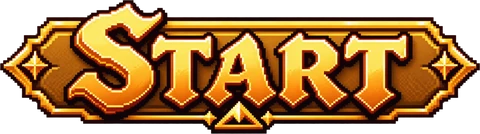
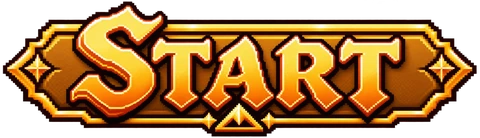
deploy: publish runtime website

diff --git a/css/ui.css b/css/ui.css
@@ -86,65 +86,11 @@
   gap: clamp(8px, 1.5vw, 22px);
 }
 
-/* Echo the Start artwork's stepped gold trim and outlined display serif. */
+/* Both images share the same proportions and click-target width. */
+#start-button,
 .title-portfolio-link {
-  --plaque-shape: polygon(0 50%, 7% 23%, 13% 23%, 13% 10%, 87% 10%, 87% 23%, 93% 23%, 100% 50%, 93% 77%, 87% 77%, 87% 90%, 13% 90%, 13% 77%, 7% 77%);
-  position: relative;
-  isolation: isolate;
-  display: grid;
-  place-items: center;
-  padding: 0.8em 1.45em;
-  min-height: 44px;
-  white-space: nowrap;
-  color: #ffdd88;
-  font: 900 clamp(13px, 1.75cqw, 24px)/1 Georgia, serif;
-  font-variant: small-caps;
-  text-decoration: none;
-  text-shadow: 0 2px #7b3109, 1px 0 #2e1108, -1px 0 #2e1108, 0 -1px #2e1108, 0 3px #1d0b07;
-  filter: drop-shadow(0 2px #1d0b07) drop-shadow(0 0 5px #fab95855);
-  transition: transform 0.12s ease, filter 0.12s ease;
-}
-
-.title-portfolio-link::before,
-.title-portfolio-link::after {
-  content: "";
-  position: absolute;
-  z-index: -1;
-  clip-path: var(--plaque-shape);
-  pointer-events: none;
-}
-
-.title-portfolio-link::before {
-  inset: 0;
-  background: linear-gradient(#fff1b6 12%, #ffbf42 38%, #a64b0f 58%, #ffbc38 86%);
-}
-
-.title-portfolio-link::after {
-  inset: 4px 7px;
-  background: linear-gradient(#6b2d15, #341509 46%, #190d0b 51%, #511e0f);
-}
-
-.title-portfolio-link:hover,
-.title-portfolio-link:focus-visible {
-  transform: scale(1.05);
-  filter: brightness(1.14) drop-shadow(0 2px #1d0b07) drop-shadow(0 0 10px #ffc85a99);
-}
-
-.title-portfolio-link:focus-visible {
-  outline: 2px solid #fff0bf;
-  outline-offset: 2px;
-}
-
-@container (max-width: 440px) {
-  .title-buttons #start-button { min-width: 94px; }
-  .title-portfolio-link { min-height: 36px; padding-inline: 1.2em; }
-}
-
-/* The Start button is the author's art (assets/ui/start-button.webp);
-   the button itself is only the click target around it. */
-#start-button {
-  width: 18%;
-  min-width: 150px;
+  display: block;
+  width: clamp(94px, 21cqw, 250px);
   padding: 0;
   background: none;
   border: none;
@@ -152,21 +98,22 @@
   transition: transform 0.12s ease, filter 0.12s ease;
 }
 
-#start-button img {
+.title-buttons img {
   display: block;
   width: 100%;
   height: auto;
 }
 
 #start-button:hover,
-#start-button:focus-visible {
+.title-portfolio-link:hover {
   transform: scale(1.05);
   filter: brightness(1.12) drop-shadow(0 0 10px rgba(255, 200, 90, 0.6));
-  outline: none;
 }
 
-#start-button:focus-visible {
-  filter: brightness(1.12) drop-shadow(0 0 10px rgba(255, 200, 90, 0.6)) drop-shadow(0 0 2px #fff);
+#start-button:focus-visible,
+.title-portfolio-link:focus-visible {
+  outline: none;
+  filter: brightness(1.12) drop-shadow(0 0 2px #fff) drop-shadow(0 0 9px #ffc85a);
 }
 
 /* Greyed out until the asset manifest has loaded (task 4.2). */

diff --git a/index.html b/index.html
@@ -41,8 +41,8 @@
 
           <div class="title-actions">
             <div class="title-buttons">
-              <button id="start-button" type="button" disabled><img src="./assets/ui/start-button.webp" alt="Start" width="480" height="134"></button>
-              <a class="title-portfolio-link" href="./portfolio.html"><span>Go to Portfolio</span></a>
+              <button id="start-button" type="button" disabled><img src="./assets/ui/start-button.webp" alt="Start" width="480" height="138"></button>
+              <a class="title-portfolio-link" href="./portfolio.html"><img src="./assets/ui/to-portfolio-button.webp" alt="To Portfolio" width="480" height="138"></a>
             </div>
             <!--
               Task 4.2: title renders immediately, Start stays disabled
